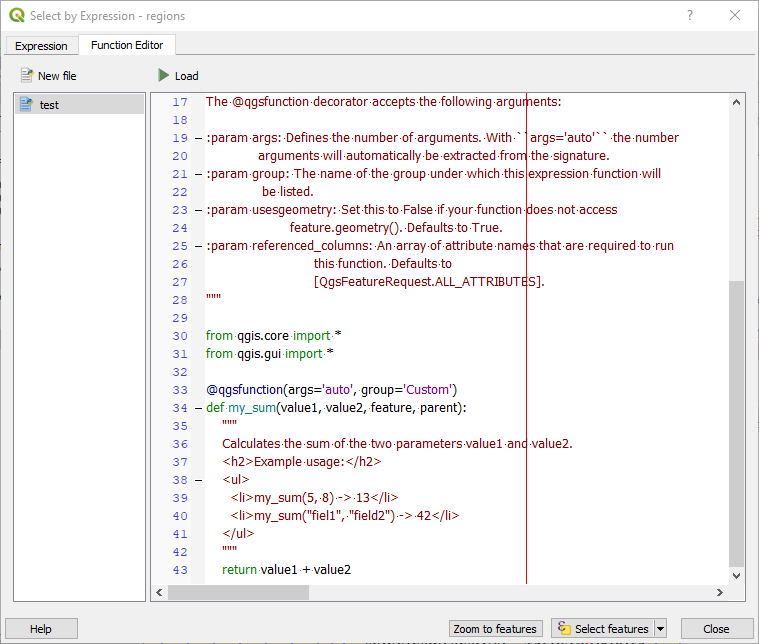
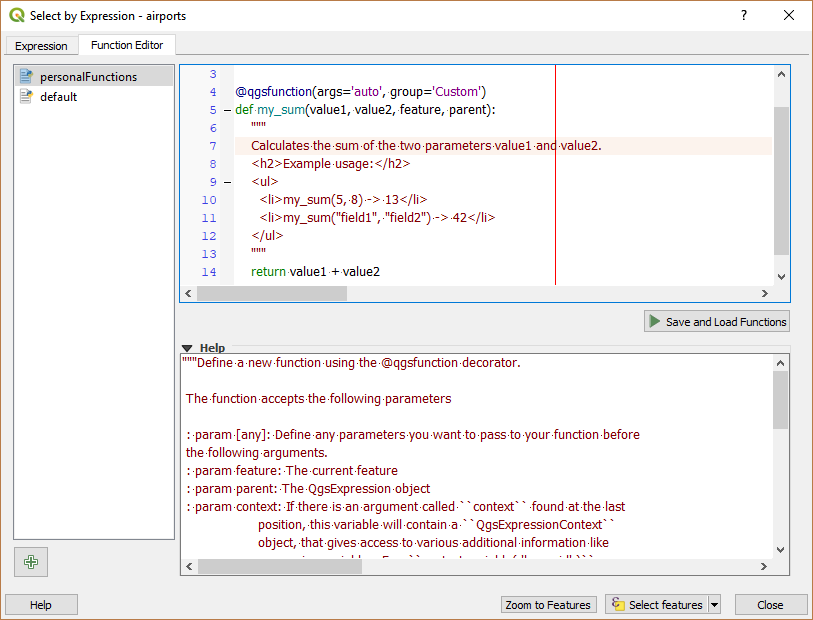
Update custom function creation

Changed region(s): [[0.0, 0.0, 1.0, 1.0], [0.9091, 0.0, 1.0, 0.0306]]

diff --git a/source/docs/user_manual/working_with_vector/expression.rst b/source/docs/user_manual/working_with_vector/expression.rst
@@ -1385,20 +1385,23 @@ particular needs that would not be covered by the predefined functions.
 
 To create a new function:
 
-#. press the |tabEditorConsole| :guilabel:`New file` button;
-#. enter a name to use in the form that pops up and press :guilabel:`OK`;
-#. a new item of the name you provide is added in the left panel of the
-   :guilabel:`Function Editor` tab; this is a Python :file:`.py` file stored in
-   the :file:`/python/expressions` folder under the active user profile directory;
-#. the right panel displays the content of the file: a python script template.
-   Update the code and its help according to your needs; 
-#. press the |start| :guilabel:`Load` button.
-#. the function you wrote is added to the functions tree in the :guilabel:`Expression`
-   tab, by default under the ``Custom`` group;
-#. enjoy your new function;
-#. if the function requires improvements, enable the :guilabel:`Function Editor`
-   tab, do the changes and press the |start| :guilabel:`Load` button to make
-   them available in the file, hence in any expression.
+#. Press the |signPlus| :sup:`New File` button.
+#. Enter a name to use in the form that pops up and press :guilabel:`OK`.
+
+   A new item of the name you provide is added in the left panel of the
+   :guilabel:`Function Editor` tab; this is a Python :file:`.py` file based on
+   QGIS template file and stored in the :file:`/python/expressions` folder
+   under the active user profile directory.
+#. The right panel displays the content of the file: a python script template.
+   Update the code and its help according to your needs.
+#. Press the |start| :guilabel:`Save and Load Functions` button.
+   The function you wrote is added to the functions tree in the :guilabel:`Expression`
+   tab, by default under the ``Custom`` group.
+#. Enjoy your new function.
+#. If the function requires improvements, enable the :guilabel:`Function Editor`
+   tab, do the changes and press again the |start| :guilabel:`Save and Load
+   Functions` button to make them available in the file, hence in any expression
+   tab.
    
 Custom Python functions are stored under the user profile directory, meaning that at
 each QGIS startup, it will auto load all the functions defined with the current user
@@ -1433,11 +1436,14 @@ When using the ``args='auto'`` function argument the number of function
 arguments required will be calculated by the number of arguments the function
 has been defined with in Python (minus 2 - ``feature``, and ``parent``).
 
-This function then can be used with the following expression:
+This function can then be used in expressions:
 
-.. code-block:: python
+.. _figure_expression_custom_function:
 
-   my_sum('field1', 'field2')
+.. figure:: img/customFunction.png
+   :align: center
+
+   Custom Function added to the Expression tab
 
 
 Further information about creating Python code can be found in the
@@ -1460,8 +1466,8 @@ Further information about creating Python code can be found in the
    :width: 1.5em
 .. |expressionSelect| image:: /static/common/mIconExpressionSelect.png
    :width: 1.5em
-.. |start| image:: /static/common/mActionStart.png
+.. |signPlus| image:: /static/common/symbologyAdd.png
    :width: 1.5em
-.. |tabEditorConsole| image:: /static/common/iconTabEditorConsole.png
+.. |start| image:: /static/common/mActionStart.png
    :width: 1.5em
 .. |updatedisclaimer| replace:: :disclaimer:`Docs in progress for 'QGIS testing'. Visit http://docs.qgis.org/2.18 for QGIS 2.18 docs and translations.`
